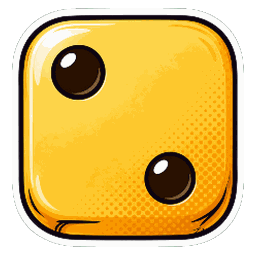
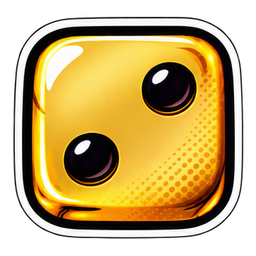
feat(des): la planche or refaite, et l'outil qui la decoupe
Les six faces chaudes de S002 etaient IDENTIQUES aux normales, octet pour
octet : le joueur n'avait aucun signal quand une paire se formait. La nouvelle
planche porte des pips en braise — les douze fichiers different, verifie au
sha-256.

outils/decouper_des.py fait le travail pour les prochaines : il ne se cale pas
sur la boite alpha, qui inclut le halo et decentre le de d'une dizaine de
pixels, mais sur le CORPS opaque, et c'est lui qu'il recentre sur (128, 128).
L'arrondi est mesure sur les quatre coins de chaque face, mediane retenue : un
coin abime par le halo ne decide pas seul.

Releve : corps 229 x 222 px, part 0,895, arrondi 30,7 %, et seulement 3 px
d'ecart d'une face a l'autre — S005 en avait 14, deja trop.

diff --git a/www/js/pages/dice_state.js b/www/js/pages/dice_state.js
@@ -48,7 +48,7 @@ const BONUS_ART = {
  * Arrondir les dessins pour les aligner serait pire : on abîmerait un art livré
  * fini. C'est le logement qui s'adapte.
  */
-const ARRONDI = { S002: 25.8, S003: 25.1, S004: 25.1, S005: 21.3, S006: 31.4, S007: 15.9 };
+const ARRONDI = { S002: 30.7, S003: 25.1, S004: 25.1, S005: 21.3, S006: 31.4, S007: 15.9 };
 const ARRONDI_ORIGINE = 27;
 
 /**
@@ -62,7 +62,7 @@ const ARRONDI_ORIGINE = 27;
  * sur les pixels VRAIMENT opaques (alpha >= 200) — la boite alpha brute inclut
  * un halo diffus et asymetrique qui ment de dix pixels.
  */
-const CORPS = { S002: 0.920, S003: 0.926, S004: 0.928, S005: 0.905, S006: 0.910, S007: 0.920 };
+const CORPS = { S002: 0.895, S003: 0.926, S004: 0.928, S005: 0.905, S006: 0.910, S007: 0.920 };
 const CORPS_ORIGINE = 0.923;
 
 /**

diff --git a/outils/decouper_des.py b/outils/decouper_des.py
@@ -1,0 +1,126 @@
+#!/usr/bin/env python3
+"""
+outils/decouper_des.py — une planche 4x3 devient douze faces mesurees.
+
+    python3 outils/decouper_des.py <planche.png> <S00X> [--nom lagon]
+
+⚠ LA BOITE ALPHA BRUTE MENT. Les planches arrivent avec un halo blanc et une
+ombre portee dont l'alpha n'est pas nul : se caler dessus decentre le de d'une
+dizaine de pixels, et le joueur voit ses des flotter dans leur logement. On ne
+retient donc que le CORPS — alpha >= 200 — et c'est lui qu'on recentre.
+
+⚠ L'ARRONDI EST CE QUI COMPTE LE PLUS. Le jeu creuse un logement dont les coins
+se calculent a partir du pourcentage releve ici. Trop carre, le de laisse quatre
+angles vides ; trop rond, il flotte. On le mesure sur les quatre coins de chaque
+face et on prend la mediane : un coin abime par le halo ne doit pas decider seul.
+"""
+import json
+import os
+import statistics
+import sys
+
+from PIL import Image
+
+COTE = 256
+COLONNES, LIGNES = 3, 4
+OPAQUE = 200
+RACINE = os.path.dirname(os.path.dirname(os.path.abspath(__file__)))
+
+
+def corps(im):
+    """La boite du corps opaque, halo exclu."""
+    alpha = im.getchannel("A")
+    masque = alpha.point(lambda a: 255 if a >= OPAQUE else 0)
+    boite = masque.getbbox()
+    if not boite:
+        raise SystemExit("une tuile est vide : la decoupe ne tombe pas juste")
+    return masque, boite
+
+
+def rayon(masque, boite):
+    """L'arrondi peint, en pixels, mediane des quatre coins.
+
+    Sur un carre arrondi, la premiere ligne pleine commence a `r` du bord : on
+    lit donc, dans la ligne du haut de la boite, ou le corps commence vraiment.
+    """
+    g, h, d, b = boite
+    px = masque.load()
+    mesures = []
+    for ligne, sens in ((h, +1), (b - 1, +1)):
+        for depart, pas in ((g, +1), (d - 1, -1)):
+            x = depart
+            while 0 <= x < masque.width and px[x, ligne] == 0:
+                x += pas
+            mesures.append(abs(x - depart) * 1.0)
+    return statistics.median(mesures)
+
+
+def decouper(planche, code, nom):
+    src = Image.open(planche).convert("RGBA")
+    tuile_l = src.width // COLONNES
+    tuile_h = src.height // LIGNES
+    sortie = os.path.join(RACINE, "www", "dice", "img", "skins", code)
+    os.makedirs(sortie, exist_ok=True)
+
+    rayons, parts, largeurs, hauteurs = [], [], [], []
+    for index in range(COLONNES * LIGNES):
+        ligne, colonne = divmod(index, COLONNES)
+        tuile = src.crop((colonne * tuile_l, ligne * tuile_h,
+                          (colonne + 1) * tuile_l, (ligne + 1) * tuile_h))
+        tuile = tuile.resize((COTE, COTE), Image.LANCZOS)
+
+        masque, boite = corps(tuile)
+        g, h, d, b = boite
+        largeur, hauteur = d - g, b - h
+        # Recentrer le CORPS sur (128, 128) : c'est lui que le joueur voit.
+        dx = round(COTE / 2 - (g + d) / 2)
+        dy = round(COTE / 2 - (h + b) / 2)
+        if dx or dy:
+            cale = Image.new("RGBA", (COTE, COTE), (0, 0, 0, 0))
+            cale.paste(tuile, (dx, dy))
+            tuile = cale
+            masque, boite = corps(tuile)
+
+        face = index % 6 + 1
+        chaude = index >= 6
+        tuile.save(os.path.join(sortie, "die_%d%s.png" % (face, "_hot" if chaude else "")))
+
+        r = rayon(masque, boite)
+        rayons.append(r / max(largeur, hauteur) * 100)
+        parts.append(max(largeur, hauteur) / COTE)
+        largeurs.append(largeur)
+        hauteurs.append(hauteur)
+
+    ecart = max(max(largeurs) - min(largeurs), max(hauteurs) - min(hauteurs))
+    mesure = {
+        "dossier": nom, "images": 12, "chaudes": True,
+        "rayon": round(statistics.median(rayons), 1),
+        "corps": round(statistics.median(parts), 3),
+    }
+    print("%s — corps %d x %d px, part %.3f, arrondi %.1f %%"
+          % (code, statistics.median(largeurs), statistics.median(hauteurs),
+             mesure["corps"], mesure["rayon"]))
+    print("   ecart entre faces : %d px %s" % (ecart, "(bon)" if ecart <= 14 else "(⚠ trop)"))
+    return mesure
+
+
+def main():
+    if len(sys.argv) < 3:
+        raise SystemExit(__doc__)
+    planche, code = sys.argv[1], sys.argv[2]
+    nom = sys.argv[4] if len(sys.argv) > 4 and sys.argv[3] == "--nom" else code.lower()
+    mesure = decouper(planche, code, nom)
+
+    fiche = os.path.join(RACINE, "www", "dice", "img", "skins", "_mesures.json")
+    tout = json.load(open(fiche, encoding="utf-8"))
+    ancien = tout.get(code, {})
+    mesure["dossier"] = ancien.get("dossier", nom)
+    tout[code] = mesure
+    with open(fiche, "w", encoding="utf-8") as f:
+        json.dump(tout, f, indent=2, ensure_ascii=False)
+        f.write("\n")
+    print("   _mesures.json a jour")
+
+
+if __name__ == "__main__":
+    main()
